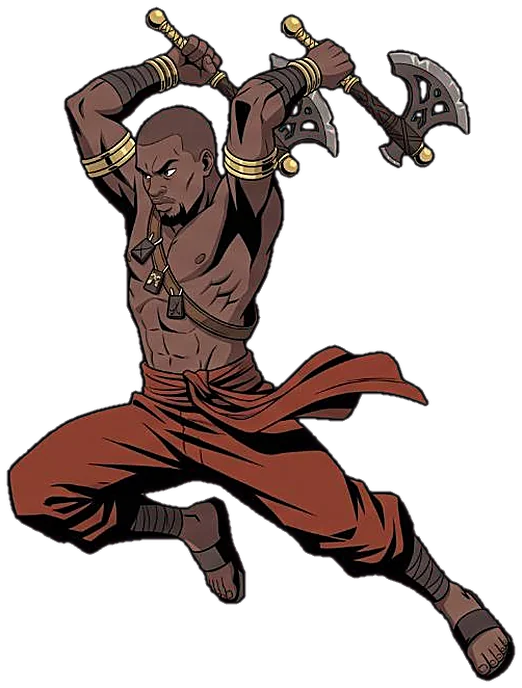
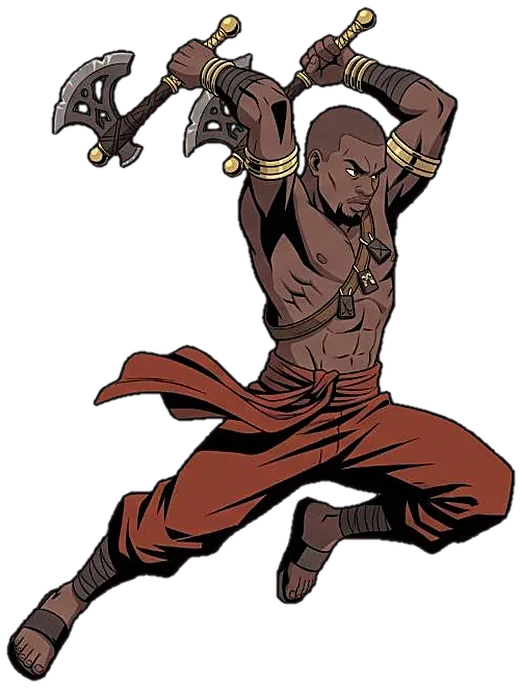
Owureku: mirror left-facing ult frame
Claude-Session: https://claude.ai/code/session_01KCvu1msLSb5oPSxPwoexAA

diff --git a/squads/kf.js b/squads/kf.js
@@ -7,5 +7,5 @@ export const KF = {
   gyakari: { ref: 647, p: {"idle_0":["gyakari_idle_0.webp",760,655,379,647],"idle_1":["gyakari_idle_1.webp",605,792,302,778],"idle_2":["gyakari_idle_2.webp",639,513,317,451],"idle_3":["gyakari_idle_3.webp",671,670,335,665],"gbA_0":["gyakari_gbA_0.webp",772,657,386,648],"gbA_1":["gyakari_gbA_1.webp",648,874,323,868],"gbA_2":["gyakari_gbA_2.webp",808,705,403,672],"gbA_3":["gyakari_gbA_3.webp",1084,655,544,649],"gbB_0":["gyakari_gbB_0.webp",703,656,351,649],"gbB_1":["gyakari_gbB_1.webp",807,726,402,712],"gbB_2":["gyakari_gbB_2.webp",787,805,392,783],"gbB_3":["gyakari_gbB_3.webp",678,527,338,489],"gult_0":["gyakari_gult_0.webp",787,655,393,647],"gult_1":["gyakari_gult_1.webp",418,779,208,983],"gult_2":["gyakari_gult_2.webp",638,588,318,580],"gult_3":["gyakari_gult_3.webp",766,630,380,633]} },
   afrakoma: { ref: 649, p: {"idle_0":["afrakoma_idle_0.webp",1015,658,506,649],"idle_1":["afrakoma_idle_1.webp",828,977,412,1037],"idle_2":["afrakoma_idle_2.webp",710,767,354,744],"idle_3":["afrakoma_idle_3.webp",831,764,415,748],"acA_0":["afrakoma_acA_0.webp",980,657,489,648],"acA_1":["afrakoma_acA_1.webp",670,1026,334,1008],"acA_2":["afrakoma_acA_2.webp",689,695,344,650],"acA_3":["afrakoma_acA_3.webp",944,794,473,775],"acB_0":["afrakoma_acB_0.webp",1023,660,510,651],"acB_1":["afrakoma_acB_1.webp",800,968,400,932],"acB_2":["afrakoma_acB_2.webp",712,1101,354,1139],"acB_3":["afrakoma_acB_3.webp",817,1176,408,1117],"ault_0":["afrakoma_ault_0.webp",975,658,486,650],"ault_1":["afrakoma_ault_1.webp",626,940,313,1067],"ault_2":["afrakoma_ault_2.webp",696,612,347,573],"ault_3":["afrakoma_ault_3.webp",860,751,430,737]} },
   kome: { ref: 648, p: {"idle_0":["kome_t0_0.webp",846,654,421,648],"idle_1":["kome_t0_1.webp",611,591,304,586],"idle_2":["kome_t1_1.webp",716,572,356,568],"idle_3":["kome_t2_1.webp",632,632,316,625],"kA_1":["kome_t3_1.webp",620,659,310,650],"kA_2":["kome_t4_1.webp",649,638,323,636],"kA_3":["kome_t5_1.webp",572,623,285,616],"kB_1":["kome_t6_1.webp",433,640,215,632],"kB_2":["kome_t7_1.webp",634,642,316,630],"kB_3":["kome_t8_1.webp",468,646,233,634],"qult_1":["kome_t9_1.webp",633,653,317,645],"qult_2":["kome_t10_1.webp",677,567,338,559],"qult_3":["kome_t11_1.webp",640,620,320,614]} },
-  owureku: { ref: 646, p: {"idle_0":["owureku_t0_0.webp",831,652,415,646],"idle_1":["owureku_t0_1.webp",725,654,361,657],"idle_2":["owureku_t1_1.webp",703,545,351,535],"idle_3":["owureku_t2_1.webp",587,614,293,616],"wA_1":["owureku_t3_1.webp",547,733,273,713],"wA_2":["owureku_t4_1.webp",723,564,361,559],"wA_3":["owureku_t5_1.webp",760,585,380,583],"wB_1":["owureku_t6_1.webp",667,662,333,642],"wB_2":["owureku_t7_1.webp",744,620,372,616],"wB_3":["owureku_t8_1.webp",780,646,390,640],"wult_1":["owureku_t9_1.webp",797,638,397,633],"wult_2":["owureku_t10_1.webp",522,688,260,667],"wult_3":["owureku_t11_1.webp",697,575,348,563]} },
+  owureku: { ref: 646, p: {"idle_0":["owureku_t0_0.webp",831,652,415,646],"idle_1":["owureku_t0_1.webp",725,654,361,657],"idle_2":["owureku_t1_1.webp",703,545,351,535],"idle_3":["owureku_t2_1.webp",587,614,293,616],"wA_1":["owureku_t3_1.webp",547,733,273,713],"wA_2":["owureku_t4_1.webp",723,564,361,559],"wA_3":["owureku_t5_1.webp",760,585,380,583],"wB_1":["owureku_t6_1.webp",667,662,333,642],"wB_2":["owureku_t7_1.webp",744,620,372,616],"wB_3":["owureku_t8_1.webp",780,646,390,640],"wult_1":["owureku_t9_1.webp",797,638,397,633],"wult_2":["owureku_t10_1.webp",522,688,262,667],"wult_3":["owureku_t11_1.webp",697,575,348,563]} },
 };

diff --git a/squads/game.js b/squads/game.js
@@ -1,9 +1,9 @@
 // Gyeaman Squads: Akan squad battler, chapter 1.
 // Battles are turn based on a speed turn order (Dislyte style): every hero picks Basic, Skill (cooldown) or Ultimate (energy)
 // and a target; enemies show their next move. Big moves get impact frames, small ones stay quiet.
-import { KF } from './kf.js?v=20261022a';
-import { HEROES, MONS, STAGES, REGIONS, DIFF, RARITY, STARTERS, SKILL_MAX, skillCost, xpNeed, STAR_SHARDS, LOCKED_CHAPTERS, PULL_COST, PULL10_COST, PITY, PULL_RATES, CLASSES, GROWTH, SPELLS } from './data.js?v=20261022a';
-import { drawAdinkra, adinkraPath, adinkraSvg, ADINKRA } from './adinkra.js?v=20261022a';
+import { KF } from './kf.js?v=20261022b';
+import { HEROES, MONS, STAGES, REGIONS, DIFF, RARITY, STARTERS, SKILL_MAX, skillCost, xpNeed, STAR_SHARDS, LOCKED_CHAPTERS, PULL_COST, PULL10_COST, PITY, PULL_RATES, CLASSES, GROWTH, SPELLS } from './data.js?v=20261022b';
+import { drawAdinkra, adinkraPath, adinkraSvg, ADINKRA } from './adinkra.js?v=20261022b';
 
 const ROOT = /\/squads\/?$|\/squads\/index\.html$/.test(location.pathname) ? '../assets/' : 'assets/';
 const A = ROOT + 'sq/';
@@ -62,7 +62,7 @@ const SFX = {
 
 // ---------------- images ----------------
 const IM = {};
-const AV = '?v=20261022a';
+const AV = '?v=20261022b';
 // stale-build guard: phones keep old pages/modules around; if the deployed version.json is newer, reload once onto it
 (async function checkBuild() {
   const mine = AV.slice(3);

diff --git a/squads/index.html b/squads/index.html
@@ -14,10 +14,10 @@
 <link rel="preconnect" href="https://fonts.googleapis.com">
 <link rel="preconnect" href="https://fonts.gstatic.com" crossorigin>
 <link href="https://fonts.googleapis.com/css2?family=Anton&family=Bangers&family=Karla:wght@400;700;800&display=swap" rel="stylesheet">
-<link rel="stylesheet" href="style.css?v=20261022a">
+<link rel="stylesheet" href="style.css?v=20261022b">
 </head>
 <body>
 <div id="app"></div>
-<script type="module" src="game.js?v=20261022a"></script>
+<script type="module" src="game.js?v=20261022b"></script>
 </body>
 </html>
